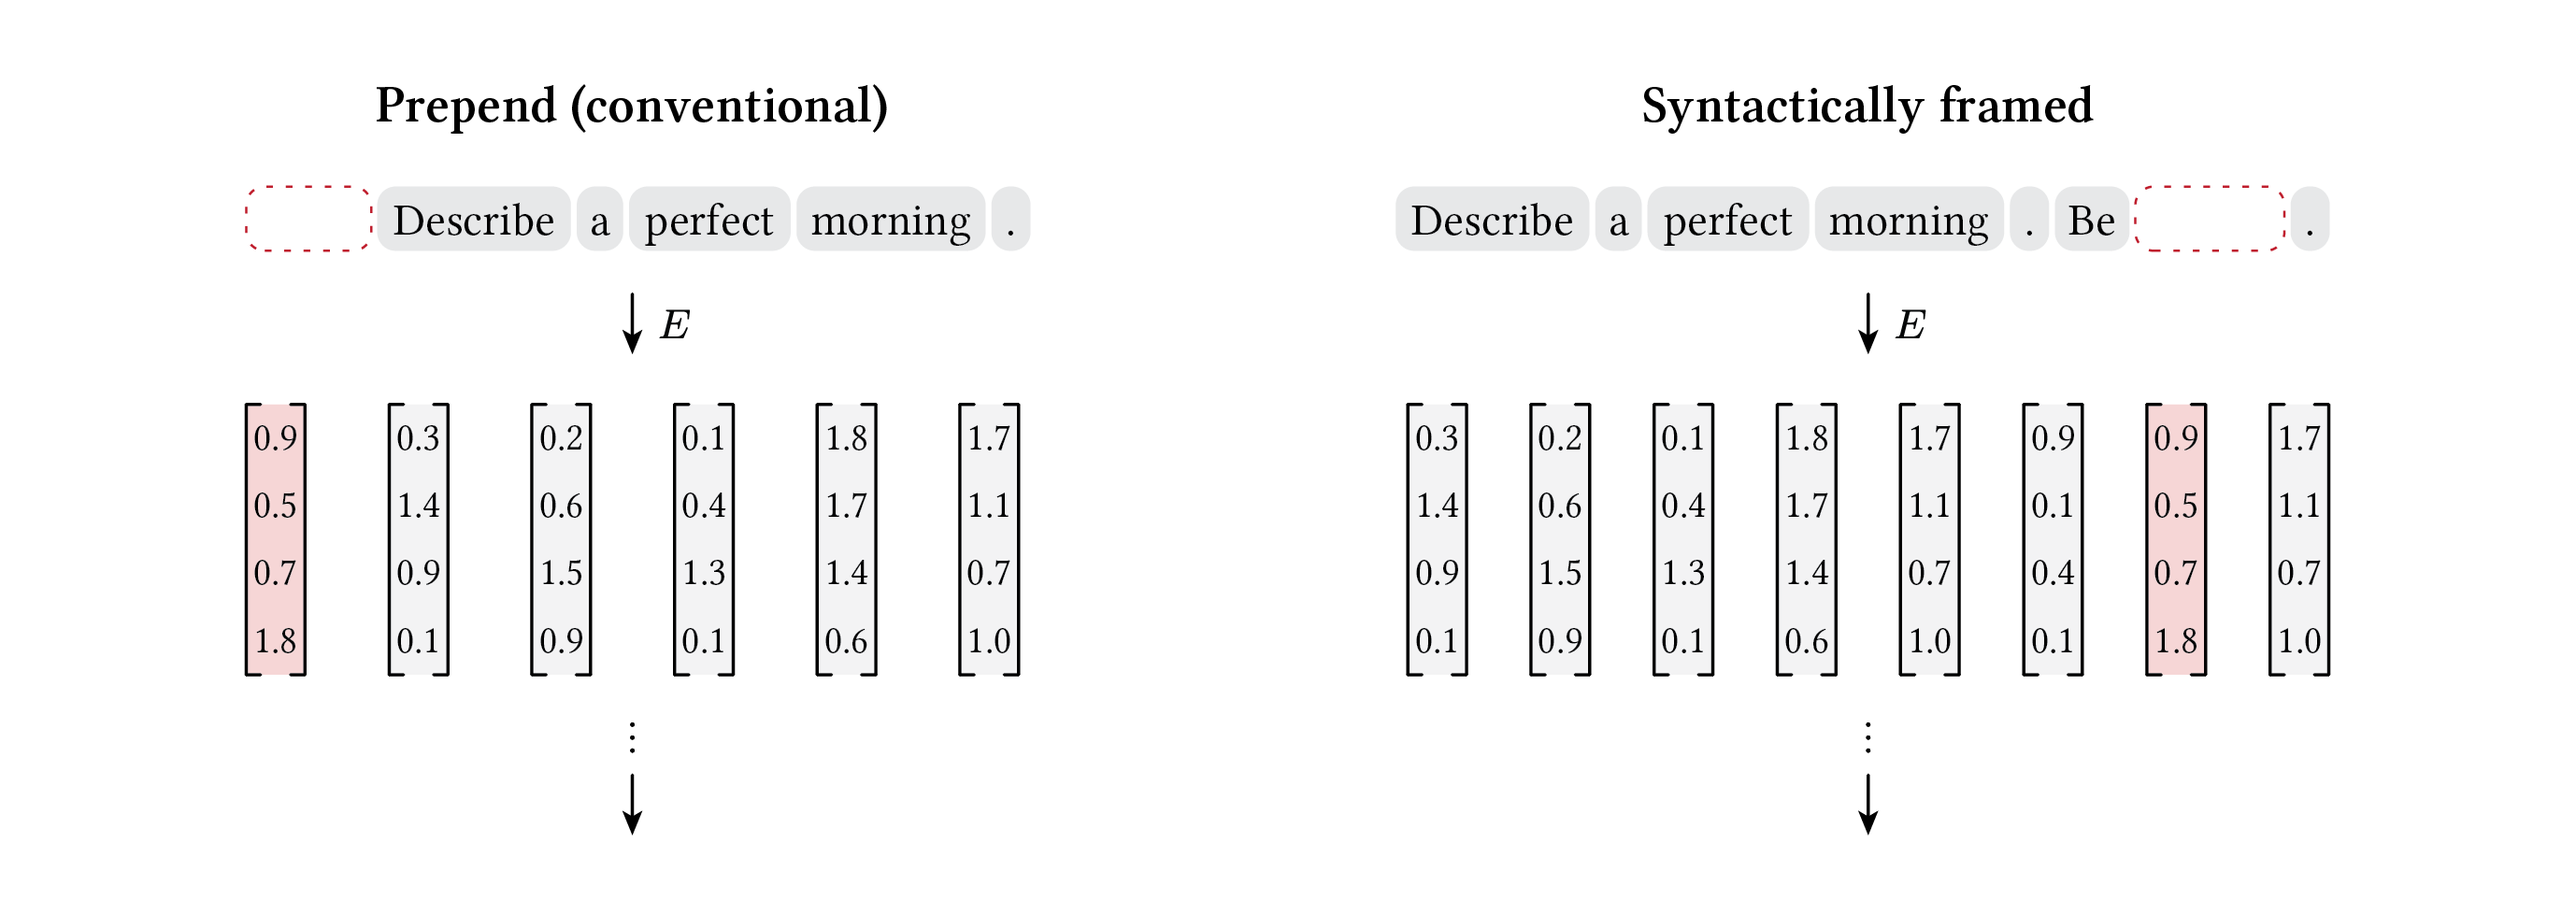
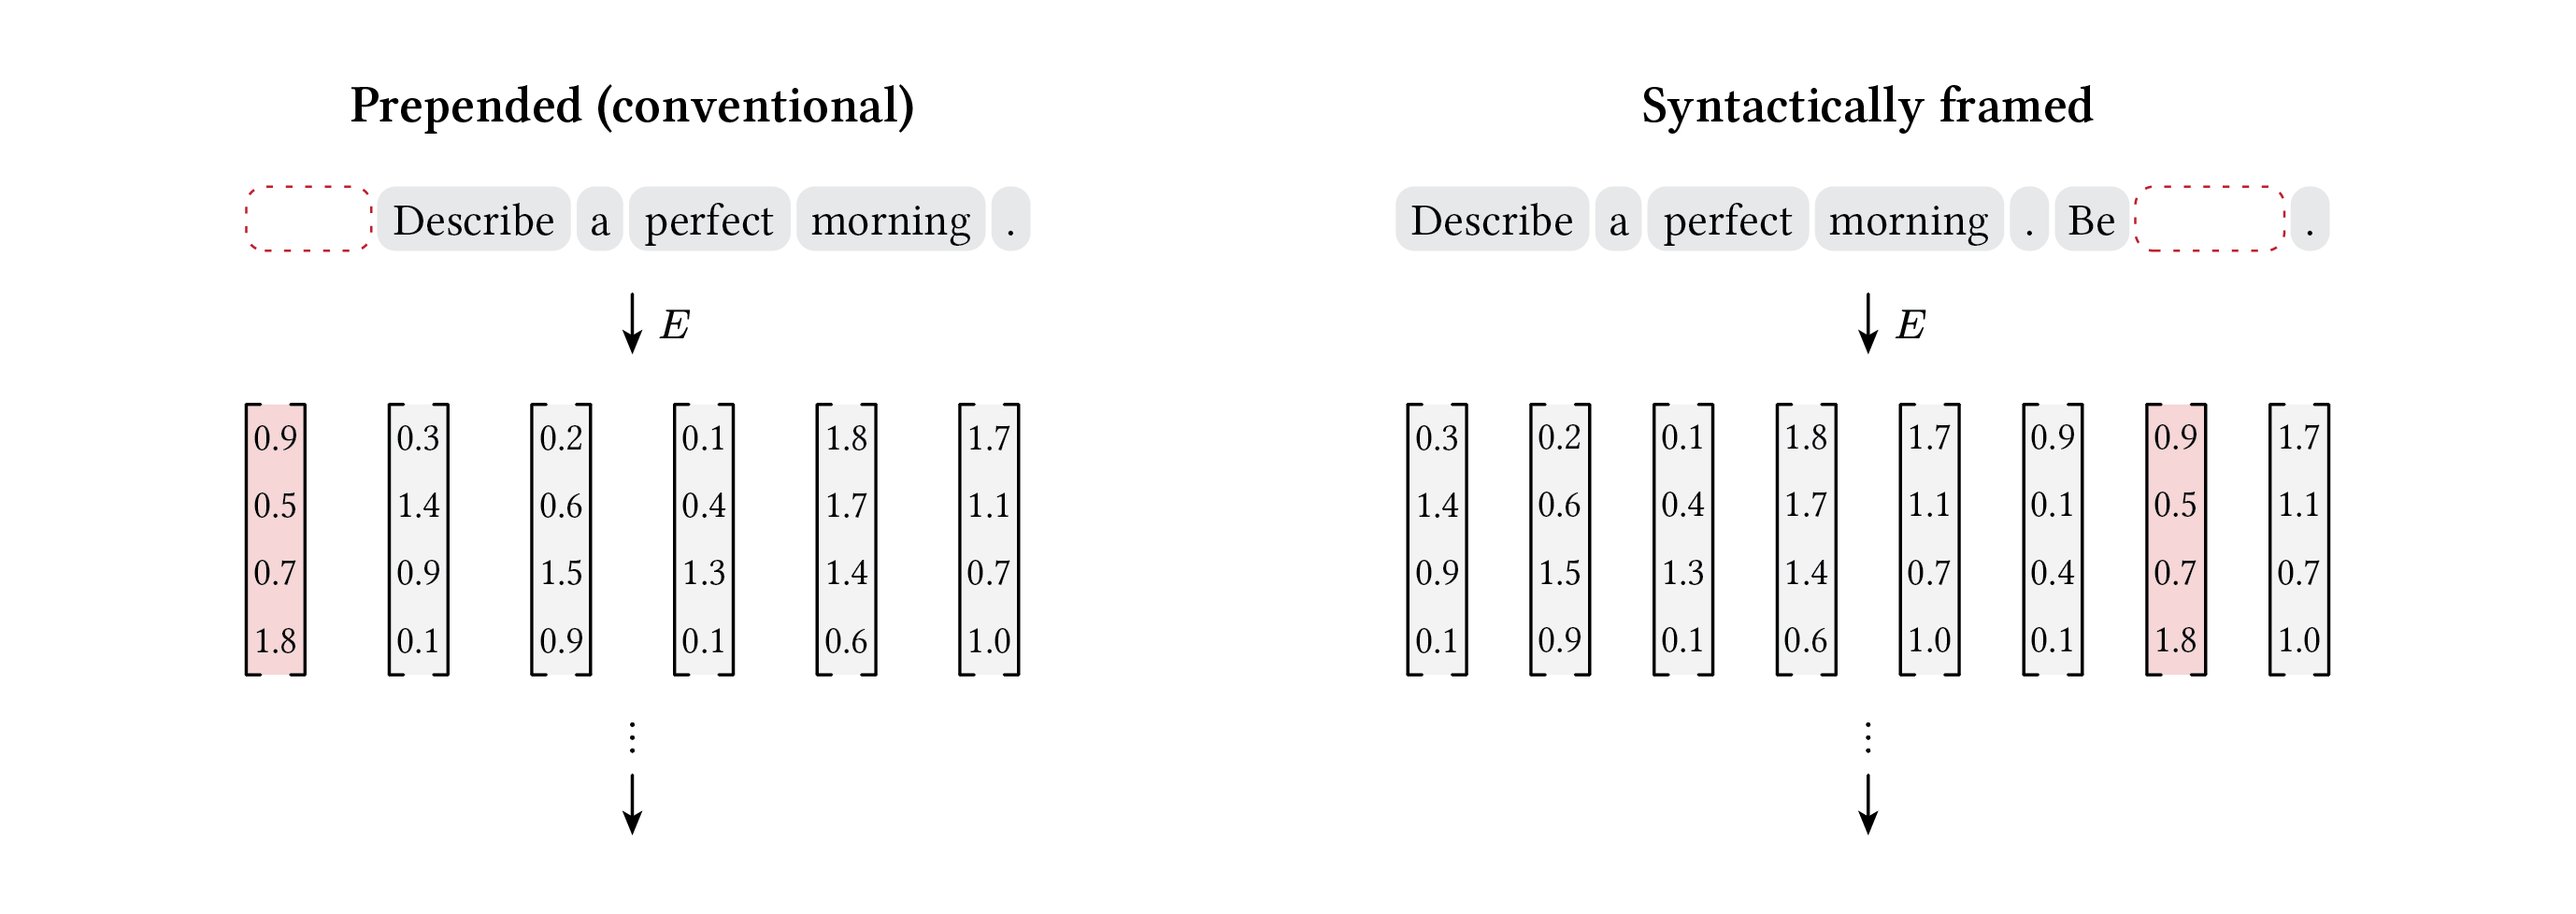
Establish prepending as convention; refresh soft-prompt figures
Prose: the prepending convention is now stated in the opening
mechanic description (with Lester citation) and echoed as "as is
conventional" at the contextualization pivot, so the baseline is
explicit in body text rather than only in a figure caption. Updated
soft_prompts.png and syntactic_frame.png emphasize convention
visually.

diff --git a/_projects/contextualized-soft-prompts.md b/_projects/contextualized-soft-prompts.md
@@ -26,9 +26,9 @@ _styles: >
 
 ## Soft prompts
 
-When a language model processes text, it converts each token into a continuous vector called an embedding. Soft prompt tuning introduces new embeddings, called *soft prompt tokens*, that are spliced into this sequence alongside the real token embeddings. The model processes them as if they were ordinary words, but they aren't drawn from any vocabulary. They are continuous (hence "soft") vectors, optimized to minimize a behavioral gap between the model with the soft prompt and some target behavior. In a sense, these are *incantations*: words outside human vocabulary that influence model behavior.
+When a language model processes text, it converts each token into a continuous vector called an embedding. Soft prompt tuning introduces new embeddings, called *soft prompt tokens*, that are conventionally prepended to the real token embeddings ([Lester et al. 2021](https://arxiv.org/abs/2104.08691)). The model processes them as if they were ordinary words, but they aren't drawn from any vocabulary. They are continuous (hence "soft") vectors, optimized to minimize a behavioral gap between the model with the soft prompt and some target behavior. In a sense, these are *incantations*: words outside human vocabulary that influence model behavior.
 
-At sufficient model scale, a handful of these learned vectors can match the performance of full fine-tuning on downstream tasks ([Lester et al. 2021](https://arxiv.org/abs/2104.08691)), while requiring only a few thousand parameters per task compared to billions for the full model. Because they operate in continuous space, soft prompts can encode nuanced behavioral information that discrete text instructions (*hard prompts*) cannot.
+At sufficient model scale, a handful of these learned vectors can match the performance of full fine-tuning on downstream tasks, while requiring only a few thousand parameters per task compared to billions for the full model. Because they operate in continuous space, soft prompts can encode nuanced behavioral information that discrete text instructions (*hard prompts*) cannot.
 
 {% include figure.liquid loading="eager" path="assets/figures/ispt/soft_prompts.png" class="img-fluid rounded z-depth-1" caption="**Soft prompts.** The embedding matrix maps discrete tokens to continuous vectors. Soft prompt tokens (red) are additional continuous vectors spliced into the embedding sequence. No vocabulary token corresponds to a soft prompt embedding (dotted box). The model's weights stay frozen; only the soft prompt is learned." %}
 
@@ -72,7 +72,7 @@ The model has not separated the concept of "respond in Spanish" from the act of 
 
 ## Contextualization
 
-One way to address this is to change the soft prompt's syntactic role during training. Instead of prepending it before the user's message, we embedded it inside a frame: "Be [soft prompt]." We call this *contextualization*.
+One way to address this is to change the soft prompt's syntactic role during training. Instead of prepending it before the user's message as is conventional, we embedded it inside a frame: "Be [soft prompt]." We call this *contextualization*.
 
 {% include figure.liquid loading="eager" path="assets/figures/ispt/syntactic_frame.png" class="img-fluid rounded z-depth-1" caption="**Prepend vs syntactic framing.** In the conventional approach (left), the soft prompt is prepended before the user content with no syntactic role. In contextualization (right), the soft prompt is embedded inside an imperative frame, giving it the role of a command complement." %}
 
